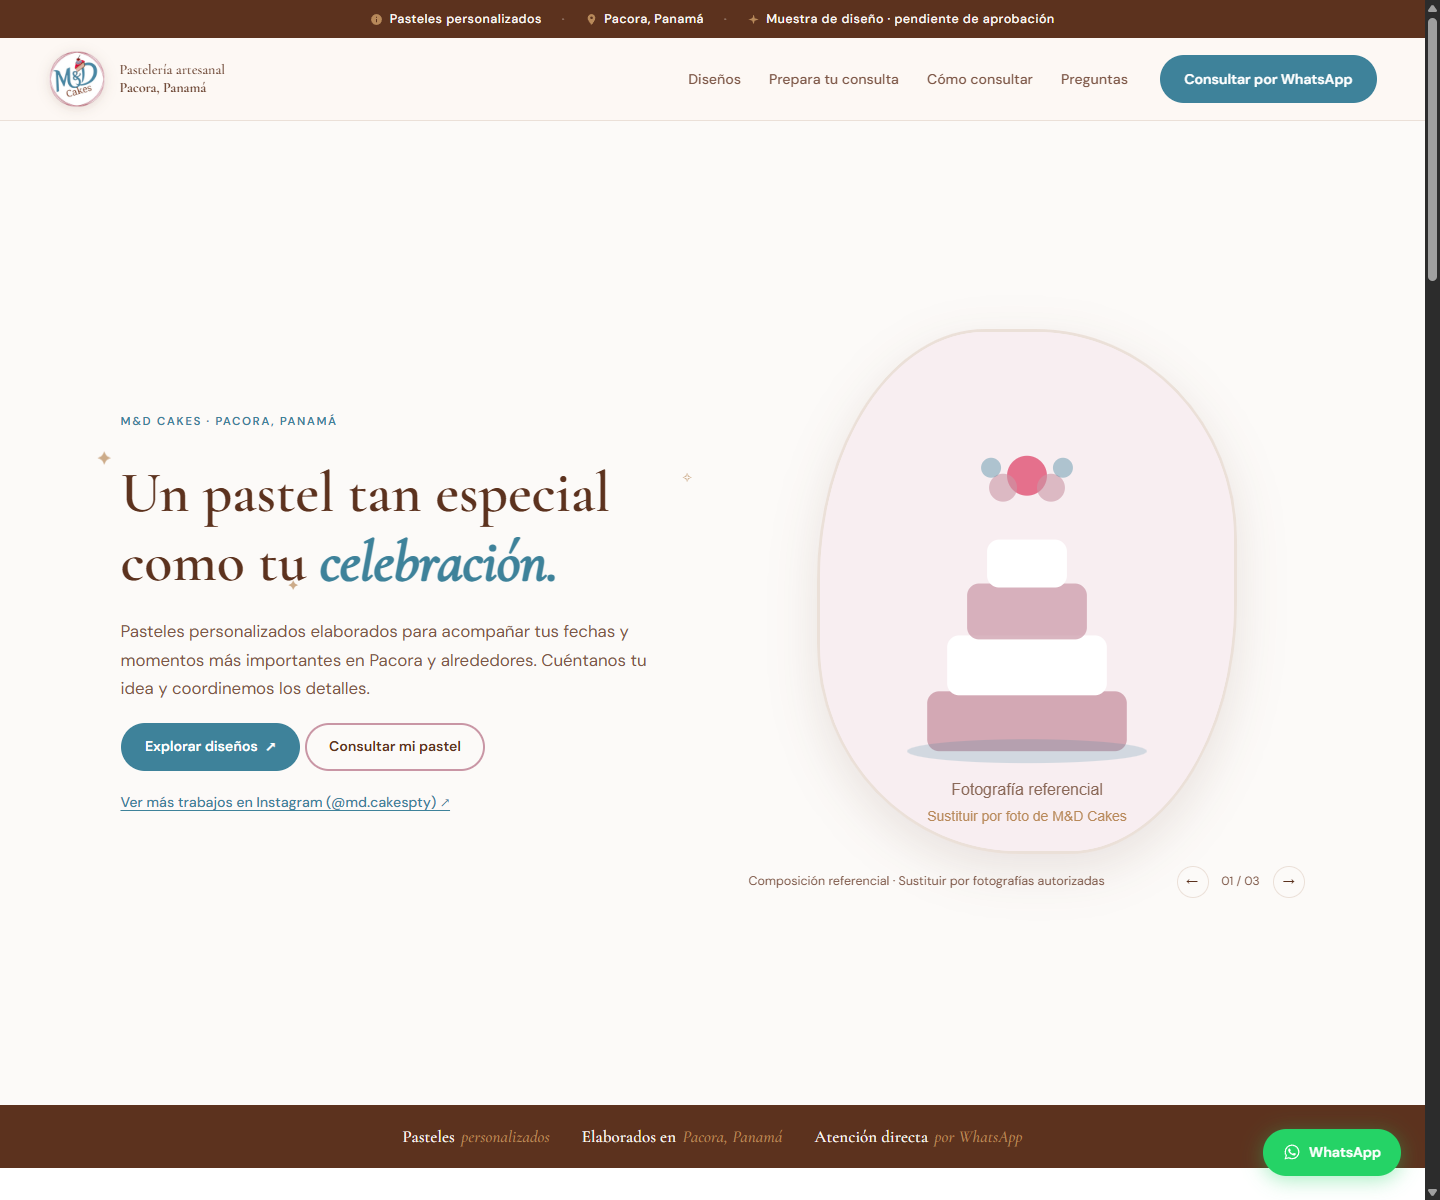
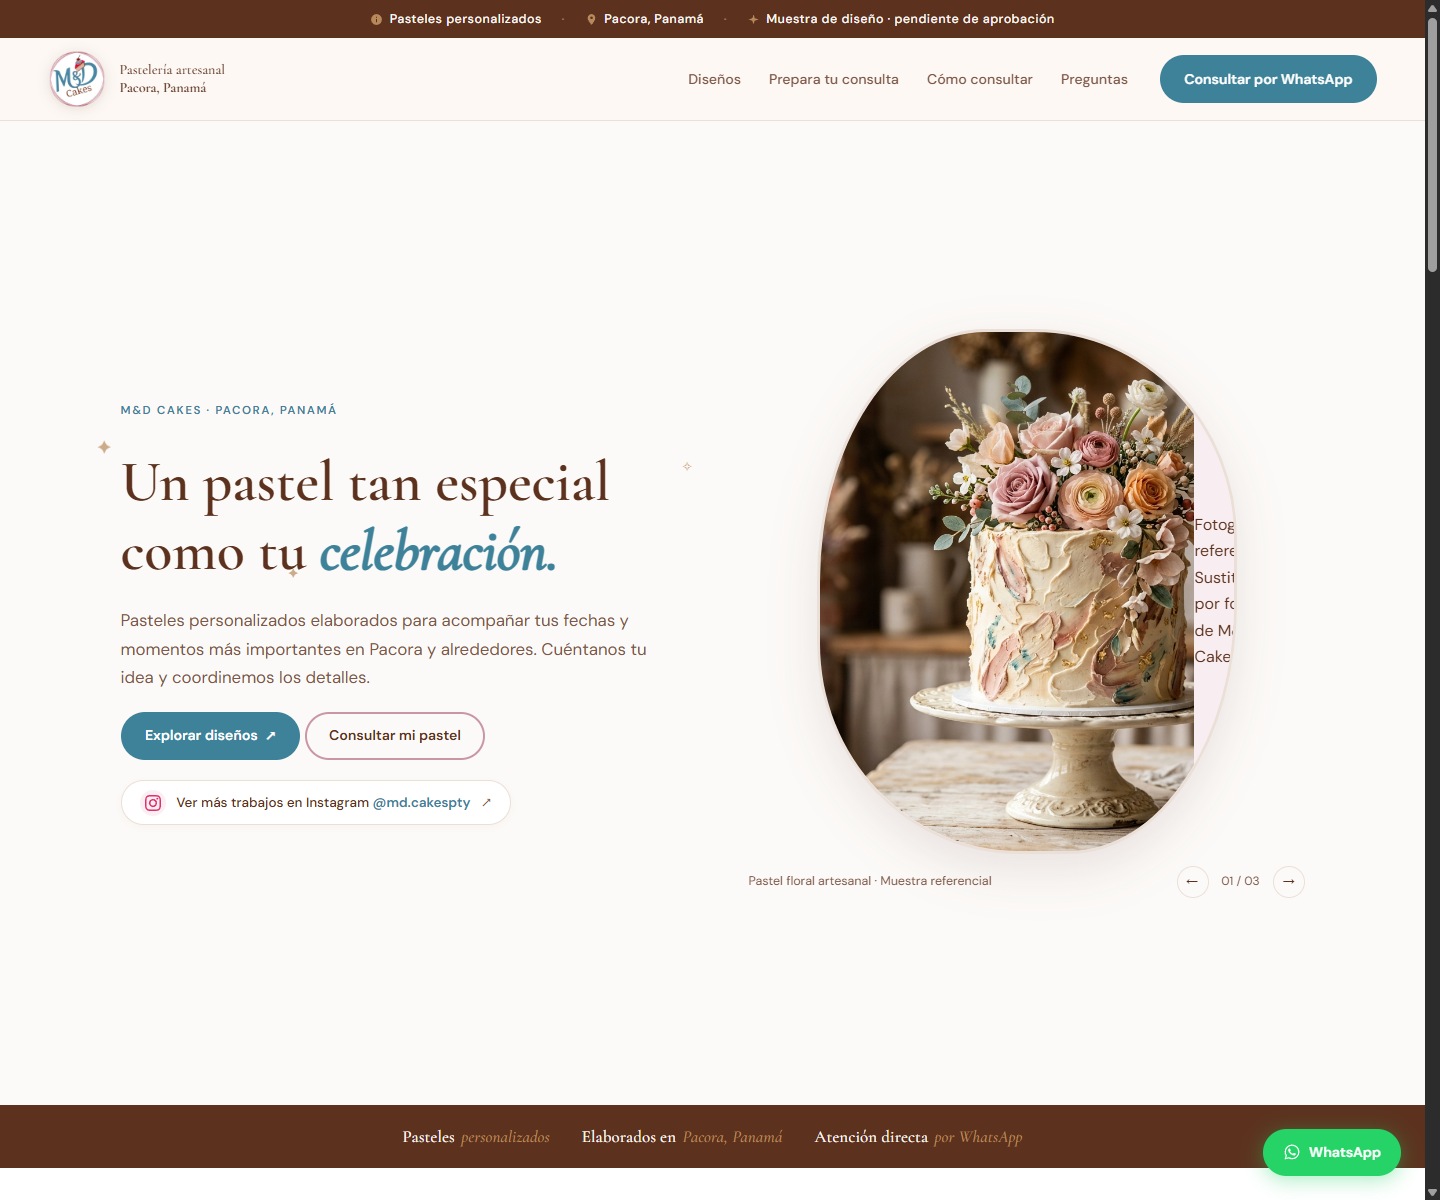
feat: fotografías gastronómicas referenciales y mejora estética de botones y enlaces de llamada a la acción

diff --git a/dist/index.html b/dist/index.html
@@ -79,7 +79,15 @@
           <a class="button" href="#galeria">Explorar diseños <span>↗</span></a>
           <a class="button secondary" href="https://wa.me/50761795457?text=Hola%2C%20M%26D%20Cakes.%20Vi%20su%20p%C3%A1gina%20y%20me%20gustar%C3%ADa%20consultar%20por%20un%20pastel%20personalizado." target="_blank" rel="noopener">Consultar mi pastel</a>
         </div>
-        <a class="text-link" href="https://www.instagram.com/md.cakespty/" target="_blank" rel="noopener">Ver más trabajos en Instagram (@md.cakespty) ↗</a>
+        <a class="hero-social-pill" href="https://www.instagram.com/md.cakespty/" target="_blank" rel="noopener" aria-label="Ver creaciones en Instagram @md.cakespty">
+          <span class="social-icon" aria-hidden="true">
+            <svg viewBox="0 0 24 24" width="16" height="16" fill="currentColor">
+              <path d="M12 2.163c3.204 0 3.584.012 4.85.07 3.252.148 4.771 1.691 4.919 4.919.058 1.265.069 1.645.069 4.849 0 3.205-.012 3.584-.069 4.849-.149 3.225-1.664 4.771-4.919 4.919-1.266.058-1.644.07-4.85.07-3.204 0-3.584-.012-4.849-.07-3.26-.149-4.771-1.699-4.919-4.92-.058-1.265-.07-1.644-.07-4.849 0-3.204.013-3.583.07-4.849.149-3.227 1.664-4.771 4.919-4.919 1.266-.057 1.645-.069 4.849-.069zm0-2.163c-3.259 0-3.667.014-4.947.072-4.358.2-6.78 2.618-6.98 6.98-.059 1.281-.073 1.689-.073 4.948 0 3.259.014 3.668.072 4.948.2 4.358 2.618 6.78 6.98 6.98 1.281.058 1.689.072 4.948.072 3.259 0 3.668-.014 4.948-.072 4.354-.2 6.782-2.618 6.979-6.98.059-1.28.073-1.689.073-4.948 0-3.259-.014-3.667-.072-4.947-.196-4.354-2.617-6.78-6.979-6.98-1.281-.059-1.69-.073-4.949-.073zm0 5.838c-3.403 0-6.162 2.759-6.162 6.162s2.759 6.163 6.162 6.163 6.162-2.759 6.162-6.163c0-3.403-2.759-6.162-6.162-6.162zm0 10.162c-2.209 0-4-1.79-4-4 0-2.209 1.791-4 4-4s4 1.791 4 4c0 2.21-1.791 4-4 4zm6.406-11.845c-.796 0-1.441.645-1.441 1.44s.645 1.44 1.441 1.44c.795 0 1.439-.645 1.439-1.44s-.644-1.44-1.439-1.44z"/>
+            </svg>
+          </span>
+          <span>Ver más trabajos en Instagram <strong>@md.cakespty</strong></span>
+          <span class="pill-arrow" aria-hidden="true">↗</span>
+        </a>
       </div>
 
       <figure class="hero-visual">
@@ -143,9 +151,18 @@
         <a class="text-link" href="https://wa.me/50761795457?text=Hola%2C%20M%26D%20Cakes.%20Estuve%20revisando%20la%20p%C3%A1gina%20y%20tengo%20una%20idea%20diferente%20para%20un%20pastel.%20%C2%BFPodr%C3%ADan%20orientarme%3F" target="_blank" rel="noopener">Consultar otra temática por WhatsApp ↗</a>
       </div>
 
-      <div class="gallery-note">
-        <span>¿Buscas una temática completamente distinta para tu evento?</span>
-        <a class="text-link" href="https://wa.me/50761795457?text=Hola%2C%20M%26D%20Cakes.%20Vi%20su%20p%C3%A1gina%20y%20tengo%20una%20tem%C3%A1tica%20especial%20en%20mente%20para%20mi%20pastel.%20%C2%BFPodr%C3%ADan%20orientarme%20sobre%20opciones%20y%20disponibilidad%3F" target="_blank" rel="noopener">Cuéntanos tu idea por WhatsApp ↗</a>
+      <div class="gallery-callout">
+        <div class="callout-content">
+          <span class="callout-tag">Personalización a medida</span>
+          <h3>¿Buscas una temática completamente distinta para tu evento?</h3>
+          <p>Pasteles temáticos, personajes, aniversarios o eventos corporativos. Cuéntanos lo que imaginas y te asesoramos.</p>
+        </div>
+        <a class="button btn-wa-callout" href="https://wa.me/50761795457?text=Hola%2C%20M%26D%20Cakes.%20Vi%20su%20p%C3%A1gina%20y%20tengo%20una%20tem%C3%A1tica%20especial%20en%20mente%20para%20mi%20pastel.%20%C2%BFPodr%C3%ADan%20orientarme%20sobre%20opciones%20y%20disponibilidad%3F" target="_blank" rel="noopener">
+          <svg viewBox="0 0 24 24" aria-hidden="true" width="18" height="18" fill="currentColor">
+            <path d="M12.04 2c-5.46 0-9.91 4.45-9.91 9.91 0 1.75.46 3.45 1.32 4.95L2.05 22l5.25-1.38c1.45.79 3.08 1.21 4.74 1.21 5.46 0 9.91-4.45 9.91-9.91 0-2.65-1.03-5.14-2.9-7.01A9.816 9.816 0 0 0 12.04 2zm0 18.15c-1.48 0-2.93-.4-4.2-1.15l-.3-.18-3.12.82.83-3.04-.2-.31a8.196 8.196 0 0 1-1.26-4.38c0-4.54 3.7-8.24 8.24-8.24 2.2 0 4.27.86 5.82 2.42a8.18 8.18 0 0 1 2.41 5.83c.01 4.54-3.69 8.23-8.22 8.23zm4.52-6.17c-.25-.12-1.47-.72-1.69-.81-.23-.08-.39-.12-.56.12-.17.25-.64.81-.79.98-.14.17-.29.19-.54.06-.25-.12-1.05-.39-2-1.23-.74-.66-1.24-1.47-1.39-1.72-.14-.25-.02-.38.11-.51.11-.11.25-.29.37-.43.12-.15.17-.25.25-.42.08-.17.04-.31-.02-.44-.06-.12-.56-1.35-.77-1.85-.2-.49-.41-.42-.56-.43h-.48c-.17 0-.44.06-.67.31-.23.25-.88.86-.88 2.1 0 1.24.9 2.44 1.03 2.61.12.17 1.77 2.7 4.29 3.79.6.26 1.07.41 1.43.53.6.19 1.15.16 1.58.1.48-.07 1.47-.6 1.68-1.18.21-.58.21-1.07.15-1.18-.07-.12-.23-.2-.48-.32z"/>
+          </svg>
+          <span>Cuéntanos tu idea por WhatsApp</span>
+        </a>
       </div>
     </section>
 
@@ -229,7 +246,12 @@
         <p class="eyebrow">RESOLVEMOS TUS DUDAS</p>
         <h2 id="faq-title">Preguntas <em>frecuentes.</em></h2>
         <p>¿Tienes alguna consulta adicional antes de escribirnos?</p>
-        <a class="text-link" href="https://wa.me/50761795457?text=Hola%2C%20M%26D%20Cakes.%20Vi%20su%20p%C3%A1gina%20y%20tengo%20una%20pregunta%20sobre%20sus%20pasteles%20personalizados." target="_blank" rel="noopener">Escribir directamente por WhatsApp ↗</a>
+        <a class="button btn-wa-faq" href="https://wa.me/50761795457?text=Hola%2C%20M%26D%20Cakes.%20Vi%20su%20p%C3%A1gina%20y%20tengo%20una%20pregunta%20sobre%20sus%20pasteles%20personalizados." target="_blank" rel="noopener">
+          <svg viewBox="0 0 24 24" aria-hidden="true" width="16" height="16" fill="currentColor">
+            <path d="M12.04 2c-5.46 0-9.91 4.45-9.91 9.91 0 1.75.46 3.45 1.32 4.95L2.05 22l5.25-1.38c1.45.79 3.08 1.21 4.74 1.21 5.46 0 9.91-4.45 9.91-9.91 0-2.65-1.03-5.14-2.9-7.01A9.816 9.816 0 0 0 12.04 2zm0 18.15c-1.48 0-2.93-.4-4.2-1.15l-.3-.18-3.12.82.83-3.04-.2-.31a8.196 8.196 0 0 1-1.26-4.38c0-4.54 3.7-8.24 8.24-8.24 2.2 0 4.27.86 5.82 2.42a8.18 8.18 0 0 1 2.41 5.83c.01 4.54-3.69 8.23-8.22 8.23zm4.52-6.17c-.25-.12-1.47-.72-1.69-.81-.23-.08-.39-.12-.56.12-.17.25-.64.81-.79.98-.14.17-.29.19-.54.06-.25-.12-1.05-.39-2-1.23-.74-.66-1.24-1.47-1.39-1.72-.14-.25-.02-.38.11-.51.11-.11.25-.29.37-.43.12-.15.17-.25.25-.42.08-.17.04-.31-.02-.44-.06-.12-.56-1.35-.77-1.85-.2-.49-.41-.42-.56-.43h-.48c-.17 0-.44.06-.67.31-.23.25-.88.86-.88 2.1 0 1.24.9 2.44 1.03 2.61.12.17 1.77 2.7 4.29 3.79.6.26 1.07.41 1.43.53.6.19 1.15.16 1.58.1.48-.07 1.47-.6 1.68-1.18.21-.58.21-1.07.15-1.18-.07-.12-.23-.2-.48-.32z"/>
+          </svg>
+          <span>Escribir por WhatsApp</span>
+        </a>
       </div>
 
       <div class="faq-list">

diff --git a/dist/style.css b/dist/style.css
@@ -211,6 +211,54 @@ header nav a:hover { color: var(--teal); }
 }
 .text-link:hover { color: var(--berry); }
 
+/* ── Hero Social Pill (Instagram) ─────────────────────────── */
+.hero-social-pill {
+  display: inline-flex;
+  align-items: center;
+  gap: .65rem;
+  padding: .55rem 1.15rem;
+  border-radius: var(--r-btn);
+  background: #ffffff;
+  border: 1.5px solid var(--line);
+  color: var(--cocoa);
+  font-size: .84rem;
+  font-weight: 500;
+  text-decoration: none;
+  width: fit-content;
+  box-shadow: 0 2px 8px rgba(92,50,30,.04);
+  transition: all .25s ease;
+}
+.hero-social-pill:hover {
+  border-color: #E1306C;
+  color: #E1306C;
+  transform: translateY(-2px);
+  box-shadow: 0 6px 16px rgba(225,48,108,.12);
+}
+.hero-social-pill .social-icon {
+  display: flex;
+  align-items: center;
+  justify-content: center;
+  width: 26px;
+  height: 26px;
+  border-radius: 50%;
+  background: #faf0f3;
+  color: #E1306C;
+  flex-shrink: 0;
+}
+.hero-social-pill strong {
+  color: var(--teal);
+  font-weight: 600;
+}
+.hero-social-pill .pill-arrow {
+  color: var(--muted);
+  font-size: .95rem;
+  transition: transform .2s;
+}
+.hero-social-pill:hover .pill-arrow {
+  transform: translate(2px, -2px);
+  color: #E1306C;
+}
+
 /* ── Eyebrow ─────────────────────────────────────────────────── */
 .eyebrow {
   font-family: var(--ff-body);
@@ -478,8 +526,44 @@ form[role="search"] button:hover { color: var(--rose); }
   background: var(--blush);
   overflow: hidden;
 }
+.card-thumb img {
+  width: 100%;
+  height: 100%;
+  object-fit: cover;
+  display: block;
+  transition: transform .45s ease;
+}
+.card:hover .card-thumb img {
+  transform: scale(1.06);
+}
 .card-thumb svg, .card-thumb .img-placeholder {
   width: 100%; height: 100%;
+}
+.hero-photo {
+  width: 100%;
+  height: 100%;
+  object-fit: cover;
+  display: block;
+}
+.ref-badge {
+  position: absolute;
+  bottom: .75rem;
+  right: .75rem;
+  background: rgba(255, 255, 255, .90);
+  backdrop-filter: blur(6px);
+  color: var(--muted);
+  font-size: .68rem;
+  font-weight: 500;
+  padding: .25rem .6rem;
+  border-radius: var(--r-btn);
+  border: 1px solid rgba(235, 224, 216, .7);
+  box-shadow: 0 2px 6px rgba(0,0,0,.06);
+}
+.modal-thumb img {
+  width: 100%;
+  height: 100%;
+  object-fit: cover;
+  display: block;
 }
 .card-badge {
   position: absolute;
@@ -567,6 +651,76 @@ form[role="search"] button:hover { color: var(--rose); }
 }
 #empty h3 { font-size: 1.5rem; }
 #empty p { color: var(--muted); }
+
+/* Gallery Callout Card */
+.gallery-callout {
+  max-width: var(--max-w);
+  margin: 3.5rem auto 0;
+  background: linear-gradient(135deg, #ffffff 0%, var(--blush) 100%);
+  border: 1.5px solid var(--line);
+  border-radius: var(--r-card);
+  padding: 2.25rem 2.5rem;
+  display: flex;
+  align-items: center;
+  justify-content: space-between;
+  gap: 2rem;
+  box-shadow: 0 4px 20px rgba(92,50,30,.04);
+}
+.callout-content {
+  display: flex;
+  flex-direction: column;
+  gap: .4rem;
+  max-width: 650px;
+}
+.callout-tag {
+  font-size: .7rem;
+  font-weight: 600;
+  letter-spacing: .12em;
+  text-transform: uppercase;
+  color: var(--teal);
+}
+.callout-content h3 {
+  font-size: 1.45rem;
+  color: var(--cocoa);
+}
+.callout-content p {
+  font-size: .92rem;
+  color: var(--muted);
+  line-height: 1.6;
+}
+.btn-wa-callout {
+  background: var(--teal);
+  color: #fff;
+  border: 2px solid transparent;
+  padding: .85rem 1.6rem;
+  font-size: .92rem;
+  font-weight: 600;
+  border-radius: var(--r-btn);
+  flex-shrink: 0;
+  display: inline-flex;
+  align-items: center;
+  gap: .6rem;
+  transition: all .25s ease;
+  box-shadow: 0 4px 14px rgba(62,130,154,.25);
+}
+.btn-wa-callout:hover {
+  background: var(--teal-dark);
+  transform: translateY(-2px);
+  box-shadow: 0 8px 22px rgba(62,130,154,.35);
+}
+
+@media (max-width: 768px) {
+  .gallery-callout {
+    flex-direction: column;
+    align-items: flex-start;
+    padding: 1.75rem 1.5rem;
+    gap: 1.25rem;
+  }
+  .btn-wa-callout {
+    width: 100%;
+    justify-content: center;
+  }
+}
 
 .gallery-note {
   max-width: var(--max-w);
@@ -717,10 +871,29 @@ form[role="search"] button:hover { color: var(--rose); }
 .faq > div:first-child {
   display: flex;
   flex-direction: column;
-  gap: 1rem;
+  gap: 1.25rem;
   align-self: start;
   position: sticky;
   top: 6rem;
+}
+.btn-wa-faq {
+  display: inline-flex;
+  align-items: center;
+  gap: .6rem;
+  padding: .75rem 1.4rem;
+  border-radius: var(--r-btn);
+  background: var(--cocoa);
+  color: #fff;
+  font-size: .88rem;
+  font-weight: 600;
+  width: fit-content;
+  transition: all .25s ease;
+  box-shadow: 0 4px 12px rgba(92,50,30,.15);
+}
+.btn-wa-faq:hover {
+  background: var(--teal);
+  transform: translateY(-2px);
+  box-shadow: 0 6px 18px rgba(62,130,154,.3);
 }
 details {
   border-bottom: 1px solid var(--line);

diff --git a/dist/app.js b/dist/app.js
@@ -5,28 +5,31 @@
 
 'use strict';
 
-/* ── Datos de muestra ───────────────────────────────────────── */
+/* ── Datos de muestra con fotografías referenciales ────────── */
 const products = [
   {
     id: 1,
-    name: 'Pastel floral',
+    name: 'Pastel floral artesanal',
     category: 'Cumpleaños',
-    description: 'Diseño floral delicado con detalles artesanales. Pétalos y hojas elaborados a mano para dar vida a cada celebración.',
-    alt: 'Pastel decorado con flores y colores suaves — imagen referencial',
+    description: 'Diseño floral delicado con acabado rústico en espátula. Tonos crema, acentos rosa empolvado y detalles en azúcar elaborados para celebraciones memorables.',
+    alt: 'Pastel artesanal con flores delicadas y glaseado en crema suave — muestra referencial',
+    image: 'assets/cake-floral.jpg',
   },
   {
     id: 2,
-    name: 'Pastel temático',
+    name: 'Pastel temático contemporáneo',
     category: 'Celebraciones',
-    description: 'Un diseño personalizado para cada temática especial. Cuéntanos qué imaginas y M&D Cakes lo hará realidad.',
-    alt: 'Pastel con decoración personalizada para celebración — imagen referencial',
+    description: 'Diseño moderno con drip satinado, macarons artesanales y toques dulces festivos. Ideal para aniversarios, cumpleaños y reuniones especiales.',
+    alt: 'Pastel contemporáneo con macarons, merengues y acabado festivo — muestra referencial',
+    image: 'assets/cake-tematico.jpg',
   },
   {
     id: 3,
-    name: 'Pastel de boda',
+    name: 'Pastel de boda / pisos elegantes',
     category: 'Bodas',
-    description: 'Elegancia y personalización para el día más especial. Varios pisos, detalles únicos y acabados artesanales.',
-    alt: 'Pastel de varios pisos con decoración elegante — imagen referencial',
+    description: 'Elegancia nupcial de dos pisos con textura satinada, cascada floral y sutiles toques dorados. Un centro de mesa sofisticado para tu gran día.',
+    alt: 'Pastel de bodas de dos pisos con flores y detalles dorados — muestra referencial',
+    image: 'assets/cake-boda.jpg',
   },
 ];
 
@@ -206,8 +209,9 @@ function renderProducts() {
     card.setAttribute('aria-label', `Ver detalles de ${p.name}`);
     card.innerHTML = `
       <div class="card-thumb" aria-label="${p.alt}">
-        ${cardSVG(p.id)}
+        <img src="${p.image}" alt="${p.alt}" loading="lazy" onerror="this.onerror=null;this.parentElement.innerHTML='${cardSVG(p.id)}'">
         <span class="card-badge">${p.category}</span>
+        <span class="ref-badge" title="Muestra referencial · Sustituir por foto de M&D Cakes">Referencia</span>
       </div>
       <div class="card-body">
         <h3>${p.name}</h3>
@@ -247,12 +251,14 @@ function openModal(id) {
   if (!p) return;
 
   detailEl.innerHTML = `
-    <div class="modal-thumb">${cardSVG(p.id)}</div>
+    <div class="modal-thumb">
+      <img src="${p.image}" alt="${p.alt}" onerror="this.onerror=null;this.parentElement.innerHTML='${cardSVG(p.id)}'">
+    </div>
     <div class="modal-info">
       <p class="eyebrow">${p.category}</p>
       <h2 id="dialog-title">${p.name}</h2>
       <p>${p.description}</p>
-      <p class="modal-ref-note">Imagen y descripción referenciales. M&D Cakes lo personalizará según tus ideas.</p>
+      <p class="modal-ref-note">Fotografía de muestra referencial. M&D Cakes adaptará colores, pisos, dedicatoria y sabores a tu celebración.</p>
     </div>
     <div class="modal-form">
       <label>
@@ -320,8 +326,13 @@ const HERO_COUNT = 3;
 
 function updateHero() {
   if (!heroPh) return;
-  heroPh.innerHTML = heroSVG(heroIndex);
+  const current = products[heroIndex] || products[0];
+  heroPh.innerHTML = `
+    <img class="hero-photo" src="${current.image}" alt="${current.alt}"
+         onerror="this.onerror=null;this.parentElement.innerHTML='${heroSVG(heroIndex)}'">`;
   if (slideCount) slideCount.textContent = `0${heroIndex + 1} / 0${HERO_COUNT}`;
+  const figText = document.querySelector('figcaption > span');
+  if (figText) figText.textContent = `${current.name} · Muestra referencial`;
 }
 
 prevBtn?.addEventListener('click', () => {
